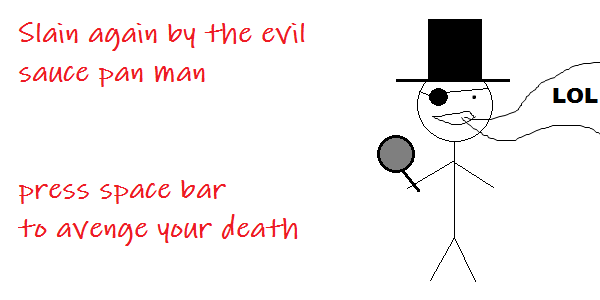
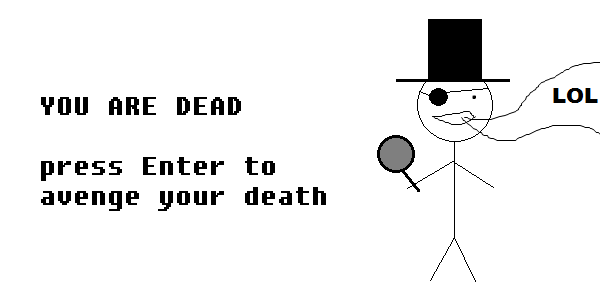
Cleaned up main menu and death screens

diff --git a/MainMenu.js b/MainMenu.js
@@ -8,7 +8,9 @@ function MainMenu()
 
   this.keyDown = function(event)
   {
-    g_ApplicationManager.startLevel();
+    if (event.keyCode == 13) {
+		g_ApplicationManager.startLevel();
+	}
   }
 }
 MainMenu.prototype = new VisualGameObject;

diff --git a/Death.js b/Death.js
@@ -8,7 +8,7 @@ function Death()
 
   this.keyDown = function(event)
   {
-    if (event.keyCode == 32)
+    if (event.keyCode == 13)
 		g_ApplicationManager.startLevel();
   }
 }
